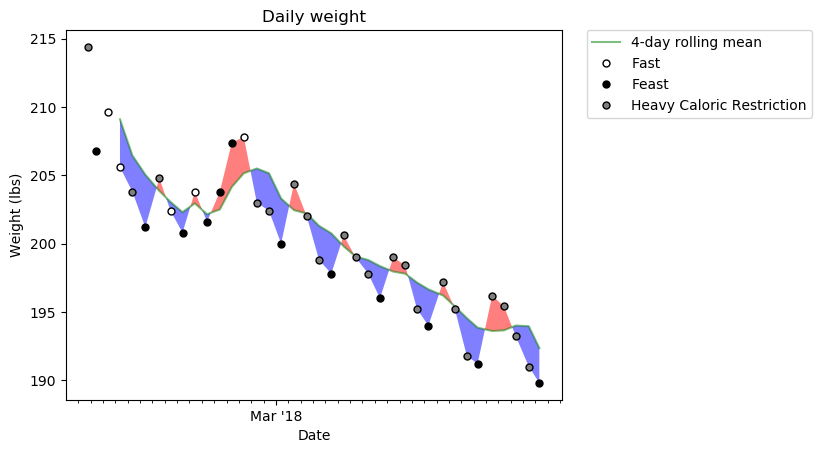
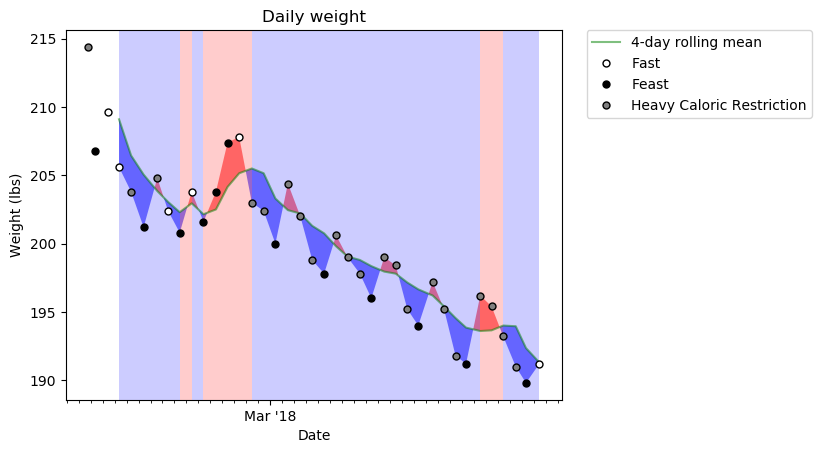
Updated plot to add shaded regions of increase and decrease, updated weight up to current day

diff --git a/plot.py b/plot.py
@@ -56,27 +56,41 @@ def movingaverage (values, window):
 # Get rolling mean list
 rolling_mean = movingaverage(weight, rolling_window)
 
-# Plot everything:
+# Initialize plot
 fig, ax = plt.subplots()
-# Plot shaded regions above and below trendline
+
+# Shade regions of increase and decrease in rolling mean
+for i in range(1,len(rolling_mean)):
+    if rolling_mean[i] > rolling_mean[i-1]:
+        plt.axvspan(date_time[rolling_window-1+i-1],date_time[rolling_window-1+i], color='red', alpha=0.2, lw=0)
+    else:
+        plt.axvspan(date_time[rolling_window-1+i-1],date_time[rolling_window-1+i], color='blue', alpha=0.2, lw=0)
+
+# Plot shaded regions above and below rolling mean
 plt.fill_between(date_time[rolling_window-1:], rolling_mean, weight[rolling_window-1:], where=rolling_mean >= weight[rolling_window-1:], facecolor='blue', alpha=0.5, interpolate=True)
 plt.fill_between(date_time[rolling_window-1:], rolling_mean, weight[rolling_window-1:], where=rolling_mean <= weight[rolling_window-1:], facecolor='red', alpha=0.5, interpolate=True)
+
 # Plot rolling mean over time
 plt.plot(date_time[rolling_window-1:], rolling_mean, 'green', alpha=0.5, label=str(rolling_window)+'-day rolling mean')
+
 # Plot weight over time
 plt.plot(date_time_fast, weight_fast, 'ko', markerfacecolor='white', markersize=5, label='Fast')
 plt.plot(date_time_feast, weight_feast, 'ko', markersize=5, label='Feast')
 plt.plot(date_time_heavy_caloric_restriction, weight_heavy_caloric_restriction, 'ko', markerfacecolor='grey', markersize=5, label='Heavy Caloric Restriction')
+
 # Plot legend
 plt.legend(bbox_to_anchor=(1.05, 1), loc=2, borderaxespad=0.)
+
 # Format x-axis
 ax.xaxis.set_major_formatter(myFmt_months)
 ax.xaxis.set_major_locator(months)
 ax.xaxis.set_minor_locator(days)
+
 # Fill in text for plot
 plt.title('Daily weight')
 plt.ylabel('Weight (lbs)')
 plt.xlabel('Date')
+
 # save plot and close
 plt.savefig('weight.png', bbox_inches='tight')
 plt.close()
